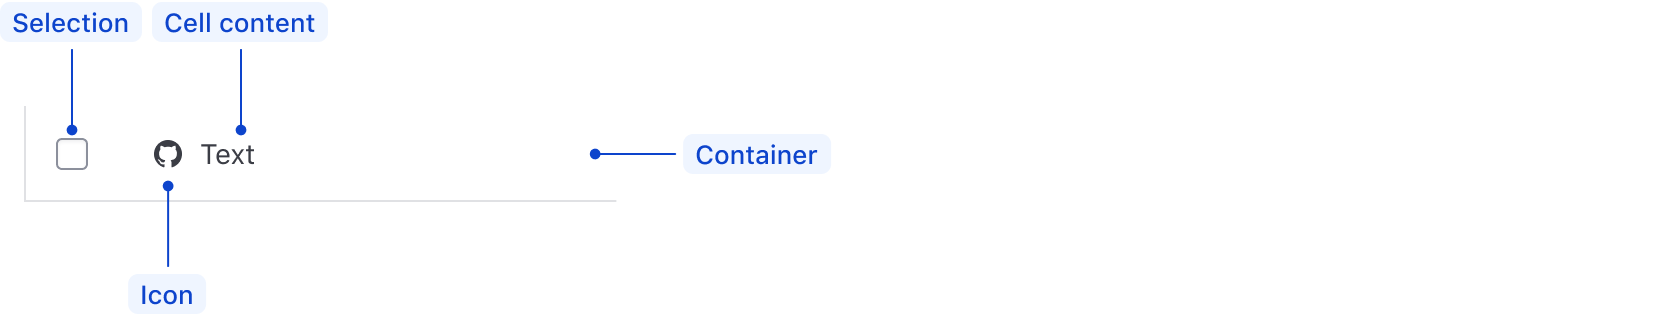
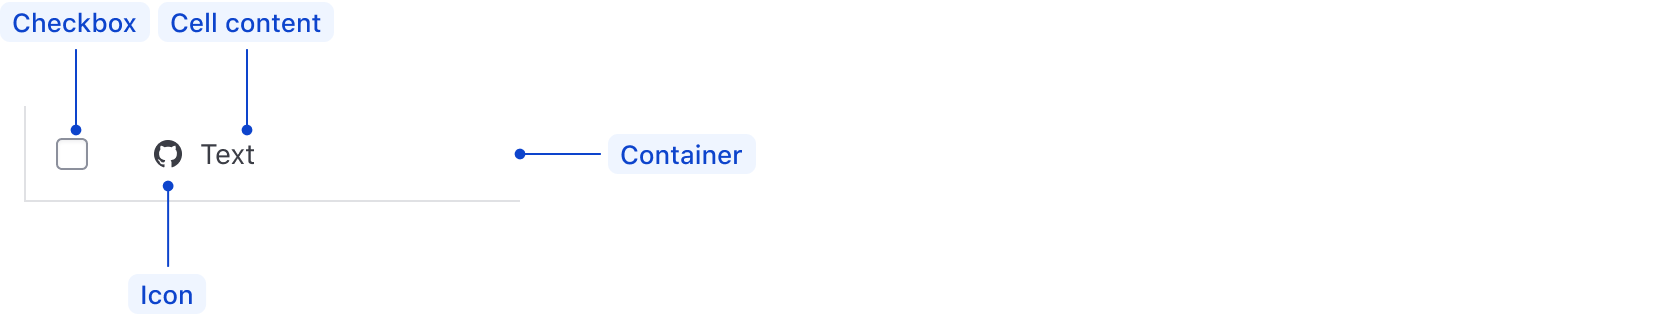
anatomy update

diff --git a/website/docs/components/table/partials/specifications/anatomy.md b/website/docs/components/table/partials/specifications/anatomy.md
@@ -2,18 +2,19 @@
 
 ### Table headers
 
-![Table header selection anatomy](/assets/components/table/table-header-select-anatomy.png)
+![Table header anatomy](/assets/components/table/table-header-select-anatomy.png)
 
 | Element          | Usage                                           |
 |------------------|-------------------------------------------------|
 | Checkbox         | Optional, but required when cells yield a checkbox |
 | Label            | Required                                        |
+| Tooltip          | Optional
 | Sort direction   | Options: none, ascending, descending            |
 | Container        | Required                                        |
 
 ### Table cells
 
-![Table cell selection anatomy](/assets/components/table/table-cell-select-anatomy.png)
+![Table cells anatomy](/assets/components/table/table-cell-select-anatomy.png)
 
 | Element      | Usage    |
 |--------------|----------|
